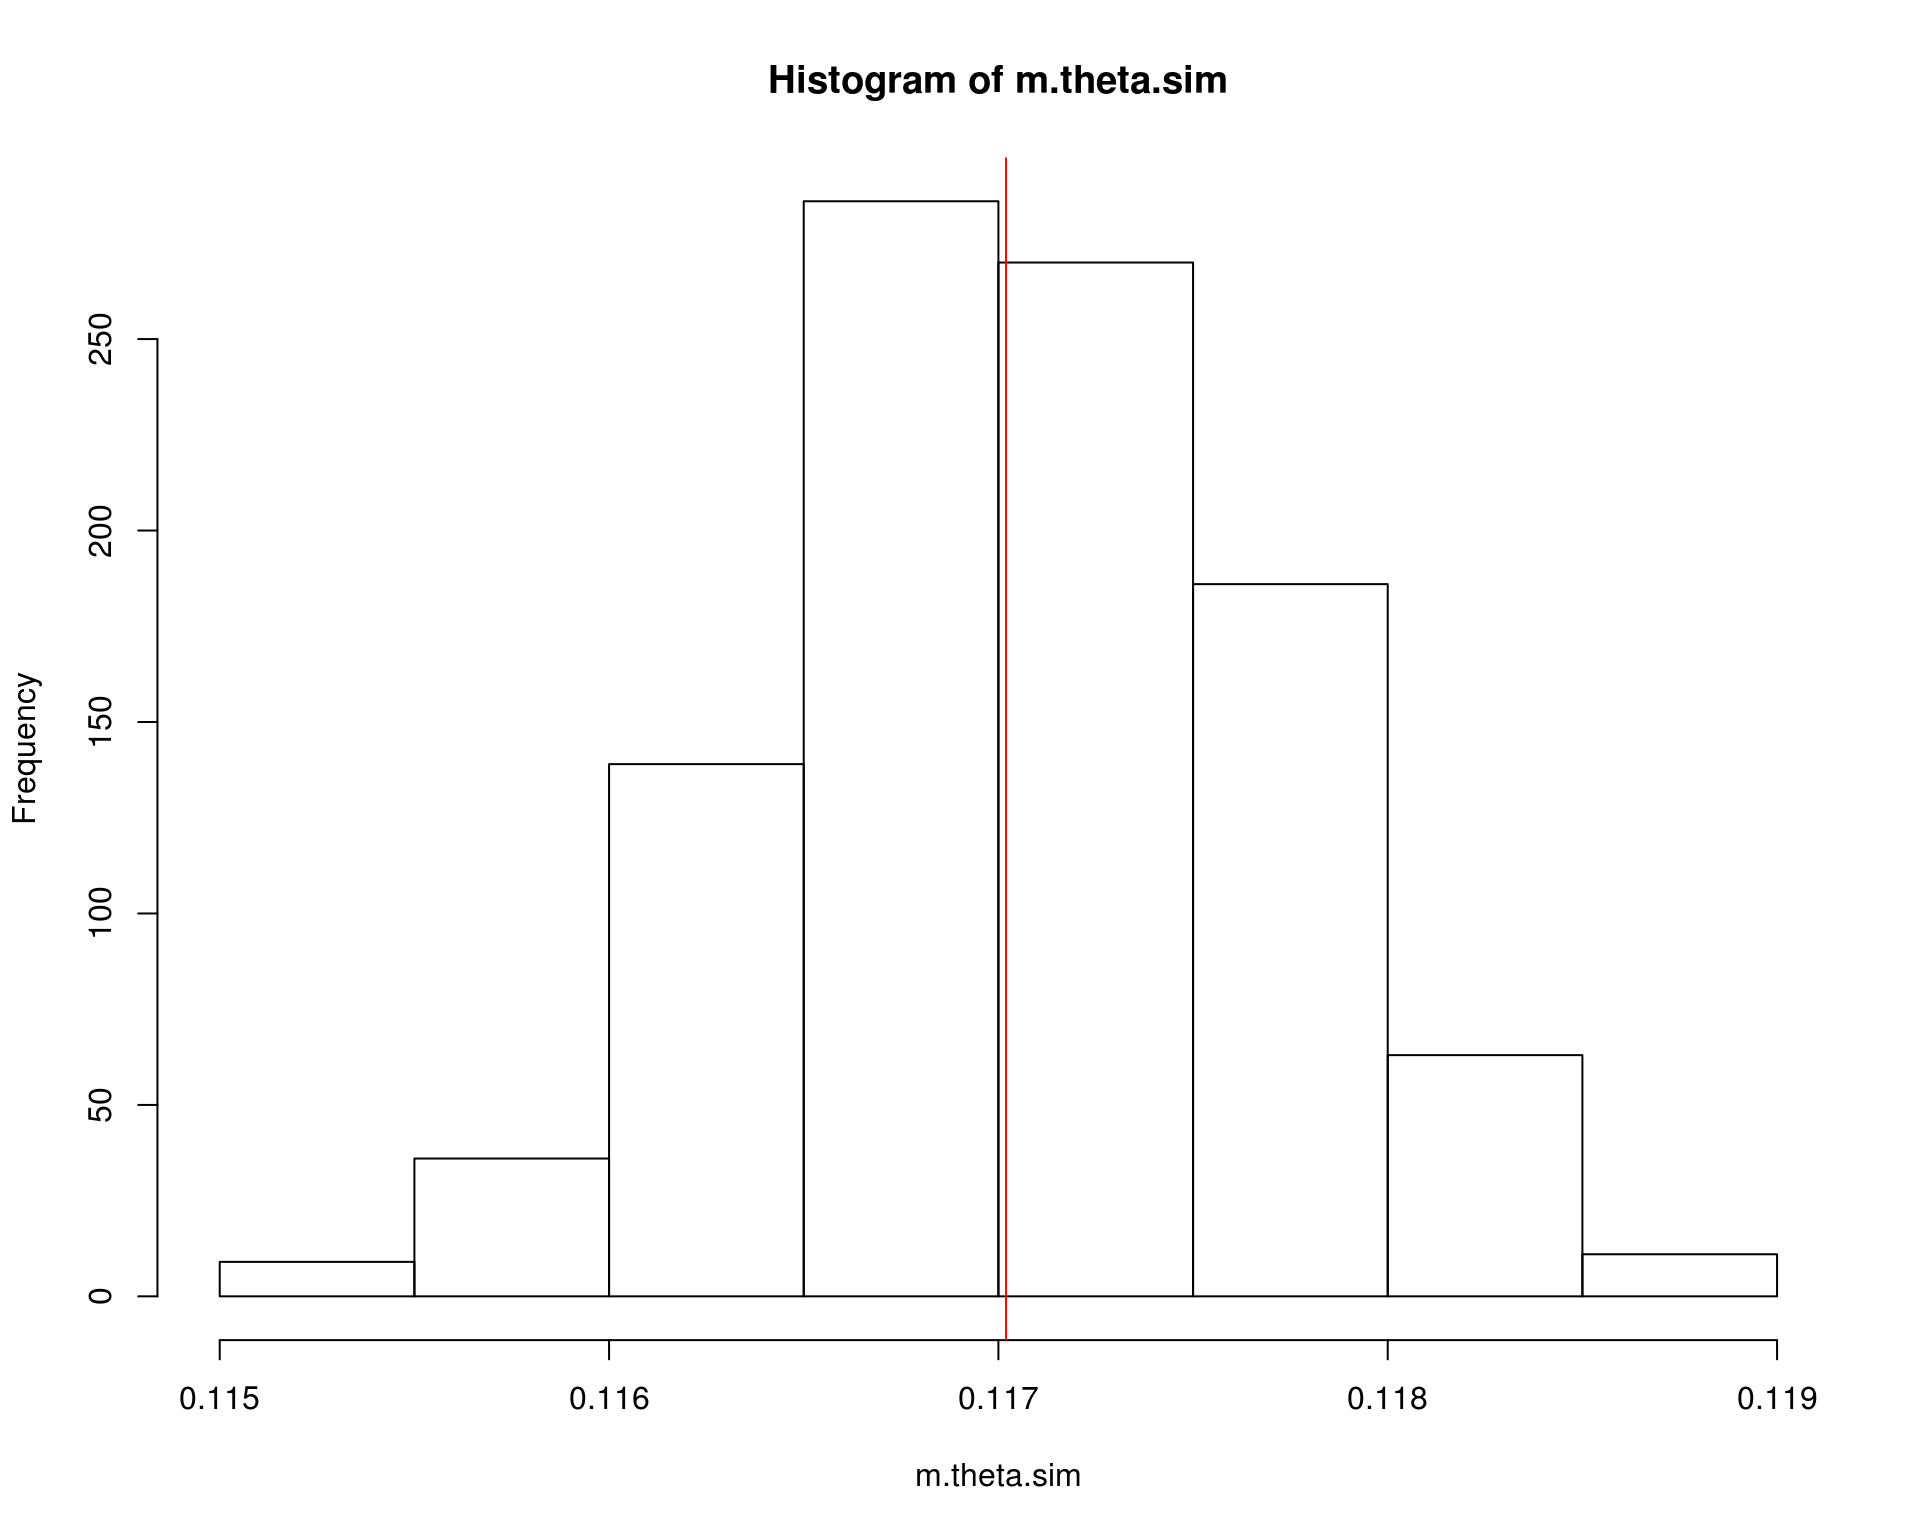
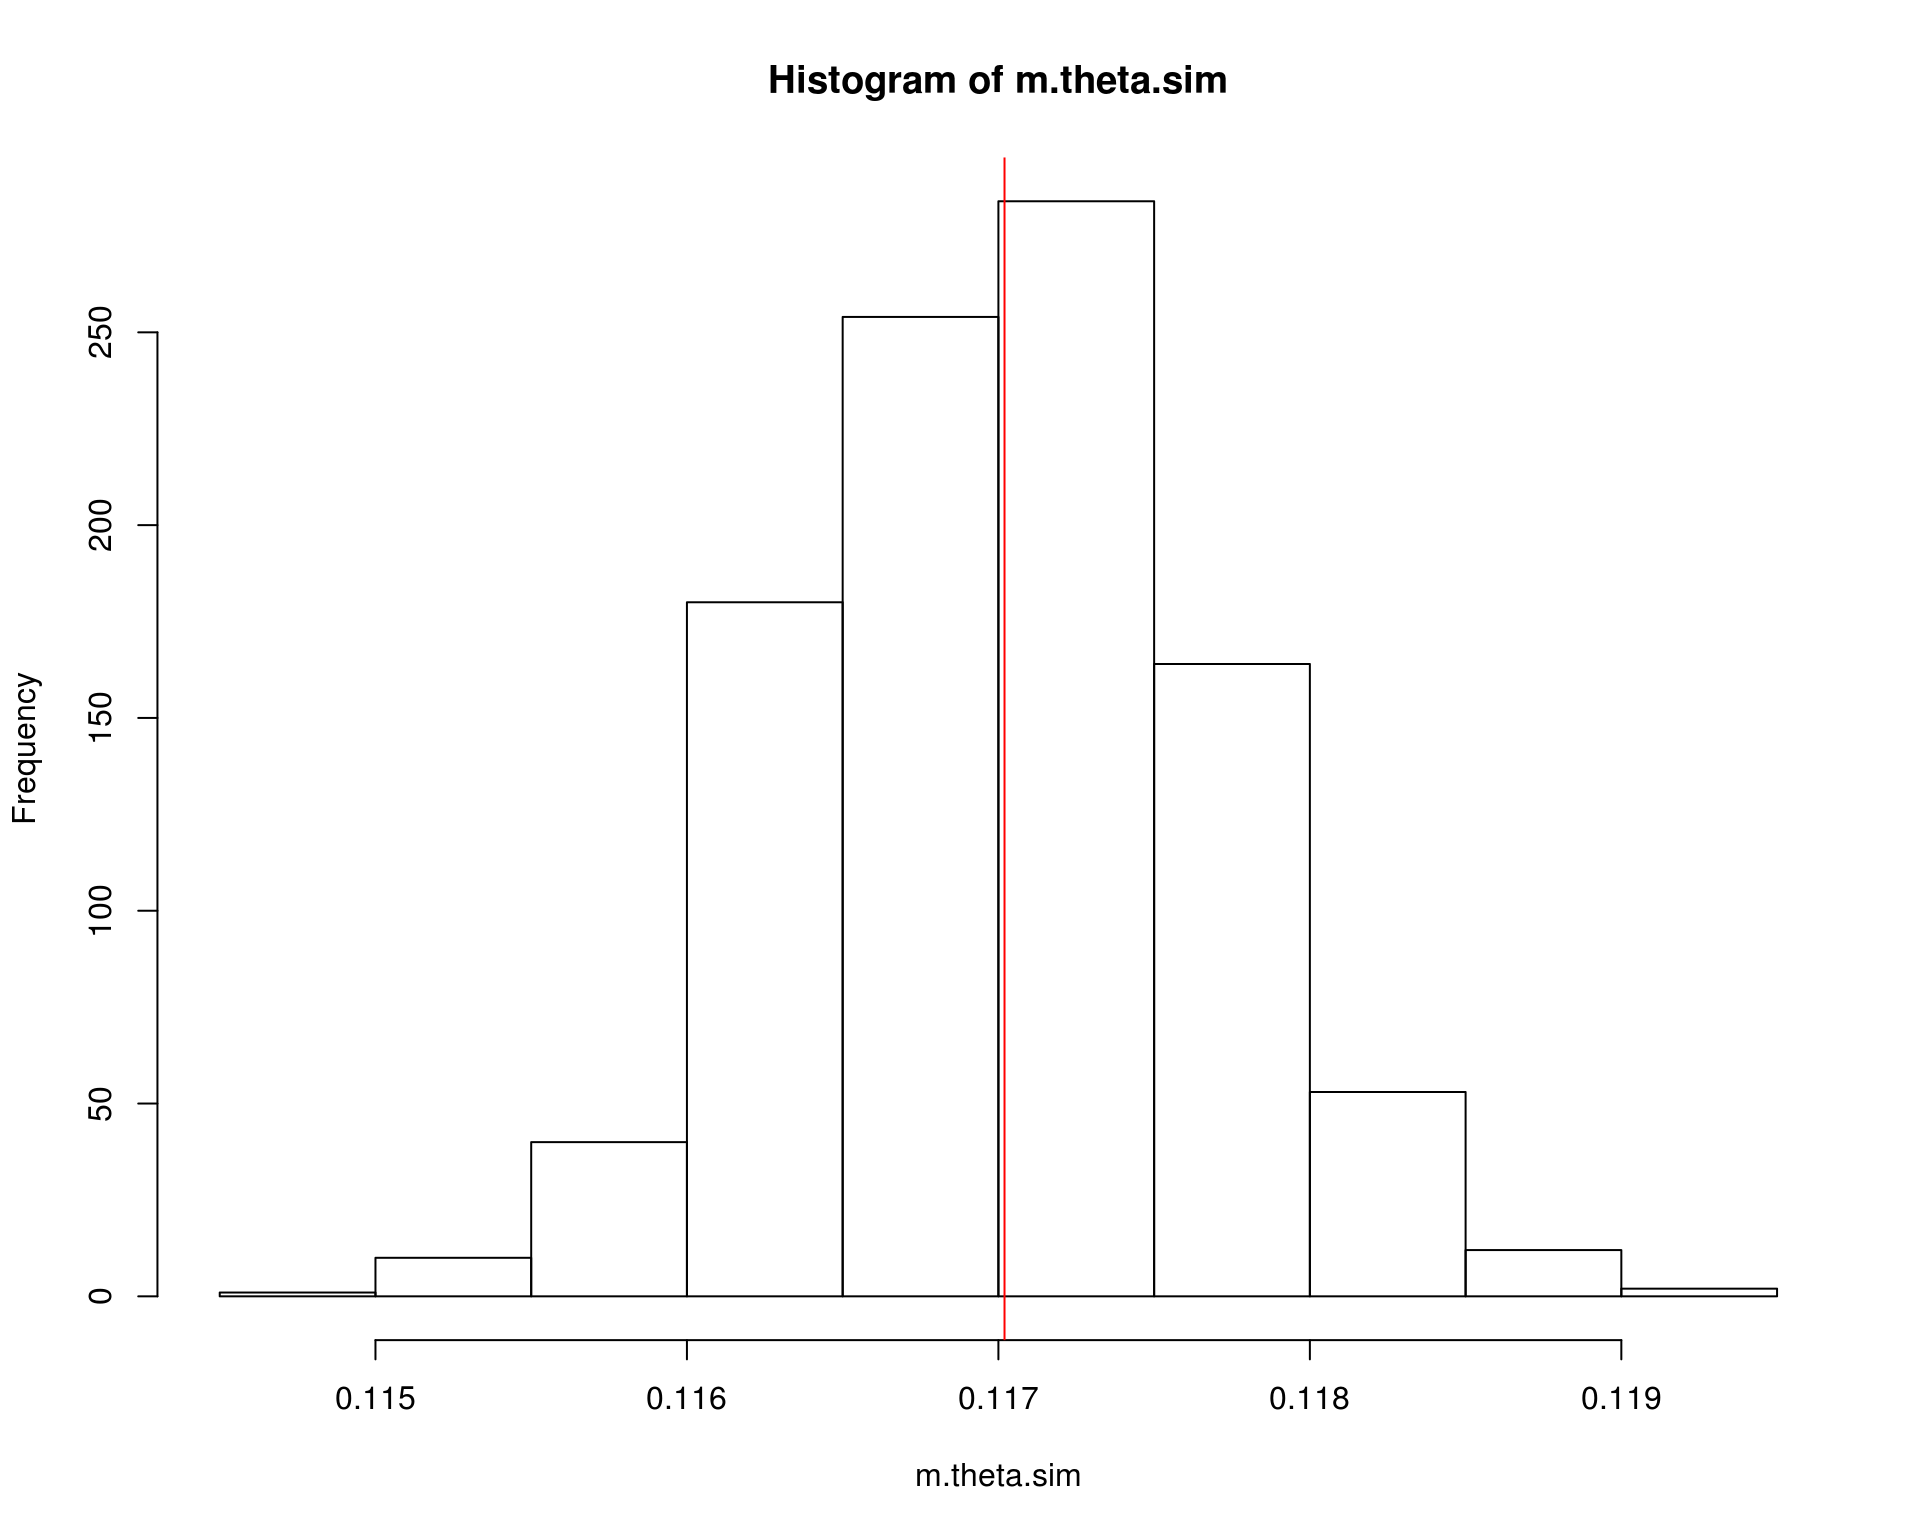
The site is alive.

diff --git a/MC_intro.html b/MC_intro.html
@@ -1,11 +1,10 @@
 <!DOCTYPE html>
 
-<html xmlns="http://www.w3.org/1999/xhtml">
+<html>
 
 <head>
 
 <meta charset="utf-8" />
-<meta http-equiv="Content-Type" content="text/html; charset=utf-8" />
 <meta name="generator" content="pandoc" />
 <meta http-equiv="X-UA-Compatible" content="IE=EDGE" />
 
@@ -554,7 +553,7 @@ P(\lim_{n \to \infty} |\bar{X}_n - \mu| &lt; \epsilon) = 1
 <a class="sourceLine" id="cb1-5" title="5">theta.hat &lt;-<span class="st"> </span><span class="kw">exp</span>(<span class="op">-</span>x)</a>
 <a class="sourceLine" id="cb1-6" title="6"><span class="co">## Calcula a média</span></a>
 <a class="sourceLine" id="cb1-7" title="7">(m.theta.hat &lt;-<span class="st"> </span><span class="kw">sum</span>(theta.hat)<span class="op">/</span>m)</a>
-<a class="sourceLine" id="cb1-8" title="8"><span class="co"># [1] 0.6305867</span></a></code></pre></div>
+<a class="sourceLine" id="cb1-8" title="8"><span class="co"># [1] 0.6341015</span></a></code></pre></div>
 <p>Nesse caso, podemos obter a solução analítica e integração numérica no R para comparar as estimativas</p>
 <div class="sourceCode" id="cb2"><pre class="sourceCode r"><code class="sourceCode r"><a class="sourceLine" id="cb2-1" title="1"><span class="co">## Solução analítica</span></a>
 <a class="sourceLine" id="cb2-2" title="2">(theta &lt;-<span class="st"> </span><span class="dv">1</span> <span class="op">-</span><span class="st"> </span><span class="kw">exp</span>(<span class="op">-</span><span class="dv">1</span>))</a>
@@ -594,7 +593,7 @@ P(\lim_{n \to \infty} |\bar{X}_n - \mu| &lt; \epsilon) = 1
 <a class="sourceLine" id="cb3-6" title="6">theta.hat &lt;-<span class="st"> </span><span class="kw">exp</span>(<span class="op">-</span>x)</a>
 <a class="sourceLine" id="cb3-7" title="7"><span class="co">## Calcula a média * (b - a)</span></a>
 <a class="sourceLine" id="cb3-8" title="8">(m.theta.hat &lt;-<span class="st"> </span>(<span class="kw">sum</span>(theta.hat)<span class="op">/</span>m) <span class="op">*</span><span class="st"> </span>(b <span class="op">-</span><span class="st"> </span>a))</a>
-<a class="sourceLine" id="cb3-9" title="9"><span class="co"># [1] 0.1161925</span></a></code></pre></div>
+<a class="sourceLine" id="cb3-9" title="9"><span class="co"># [1] 0.1171845</span></a></code></pre></div>
 <p>Nesse caso, podemos obter a solução analítica e integração numérica no R para comparar as estimativas</p>
 <div class="sourceCode" id="cb4"><pre class="sourceCode r"><code class="sourceCode r"><a class="sourceLine" id="cb4-1" title="1"><span class="co">## Solução analítica</span></a>
 <a class="sourceLine" id="cb4-2" title="2">(theta &lt;-<span class="st"> </span><span class="kw">exp</span>(<span class="op">-</span><span class="dv">2</span>) <span class="op">-</span><span class="st"> </span><span class="kw">exp</span>(<span class="op">-</span><span class="dv">4</span>))</a>
@@ -615,7 +614,7 @@ P[X&gt;2] = \int_2^{\infty} e^{-x} dx
 <a class="sourceLine" id="cb5-5" title="5">theta.hat2 &lt;-<span class="st"> </span><span class="kw">exp</span>(<span class="op">-</span>x2)</a>
 <a class="sourceLine" id="cb5-6" title="6"><span class="co">## Calcula a média * (b - a)</span></a>
 <a class="sourceLine" id="cb5-7" title="7">(m.theta.hat2 &lt;-<span class="st"> </span>(<span class="kw">sum</span>(theta.hat2)<span class="op">/</span>m) <span class="op">*</span><span class="st"> </span>(<span class="fl">1e5</span> <span class="op">-</span><span class="st"> </span><span class="dv">2</span>))</a>
-<a class="sourceLine" id="cb5-8" title="8"><span class="co"># [1] 9.428502e-06</span></a>
+<a class="sourceLine" id="cb5-8" title="8"><span class="co"># [1] 0.006793177</span></a>
 <a class="sourceLine" id="cb5-9" title="9"><span class="co">## Solução analítica</span></a>
 <a class="sourceLine" id="cb5-10" title="10">(theta2 &lt;-<span class="st"> </span><span class="kw">exp</span>(<span class="op">-</span><span class="dv">2</span>) <span class="op">-</span><span class="st"> </span><span class="kw">exp</span>(<span class="op">-</span><span class="fl">1e5</span>))</a>
 <a class="sourceLine" id="cb5-11" title="11"><span class="co"># [1] 0.1353353</span></a>
@@ -636,17 +635,17 @@ P[X&gt;2] = \int_2^{\infty} e^{-x} dx
 \]</span></p>
 <p>Seguindo o exemplo anterior, vimos que a estimativa da integral é</p>
 <div class="sourceCode" id="cb6"><pre class="sourceCode r"><code class="sourceCode r"><a class="sourceLine" id="cb6-1" title="1">m.theta.hat</a>
-<a class="sourceLine" id="cb6-2" title="2"><span class="co"># [1] 0.1161925</span></a></code></pre></div>
+<a class="sourceLine" id="cb6-2" title="2"><span class="co"># [1] 0.1171845</span></a></code></pre></div>
 <p>Mas veja que existe uma distribuição de valores para compor esta estimativa média</p>
 <div class="sourceCode" id="cb7"><pre class="sourceCode r"><code class="sourceCode r"><a class="sourceLine" id="cb7-1" title="1"><span class="kw">hist</span>(theta.hat); <span class="kw">abline</span>(<span class="dt">v =</span> theta, <span class="dt">col =</span> <span class="dv">2</span>)</a></code></pre></div>
 <p><img src="figures/MC_intro/unnamed-chunk-9-1.png" width="80%" style="display: block; margin: auto;" /></p>
 <p>A variância relacionada ao estimador pode então ser calculada como</p>
 <div class="sourceCode" id="cb8"><pre class="sourceCode r"><code class="sourceCode r"><a class="sourceLine" id="cb8-1" title="1"><span class="co">## Variancia</span></a>
 <a class="sourceLine" id="cb8-2" title="2">(v.theta.hat &lt;-<span class="st"> </span><span class="kw">sum</span>((theta.hat <span class="op">-</span><span class="st"> </span>m.theta.hat)<span class="op">^</span><span class="dv">2</span>)<span class="op">/</span>m<span class="op">^</span><span class="dv">2</span>)</a>
-<a class="sourceLine" id="cb8-3" title="3"><span class="co"># [1] 4.438683e-07</span></a>
+<a class="sourceLine" id="cb8-3" title="3"><span class="co"># [1] 4.50336e-07</span></a>
 <a class="sourceLine" id="cb8-4" title="4"><span class="co">## Erro padrão</span></a>
 <a class="sourceLine" id="cb8-5" title="5">(se.theta.hat &lt;-<span class="st"> </span><span class="kw">sqrt</span>(v.theta.hat))</a>
-<a class="sourceLine" id="cb8-6" title="6"><span class="co"># [1] 0.0006662344</span></a></code></pre></div>
+<a class="sourceLine" id="cb8-6" title="6"><span class="co"># [1] 0.0006710708</span></a></code></pre></div>
 <p>Pelo Teorema do Limite Central, temos que</p>
 <p><span class="math display">\[
 \frac{\hat\theta - \text{E}(\hat\theta)}{\sqrt{\hat{V}(\hat\theta)}}
@@ -660,10 +659,10 @@ P[X&gt;2] = \int_2^{\infty} e^{-x} dx
 <p>Com esse resultado, podemos inclusive fornecer um intervalo de confiança associado à nossa estimativa</p>
 <div class="sourceCode" id="cb10"><pre class="sourceCode r"><code class="sourceCode r"><a class="sourceLine" id="cb10-1" title="1"><span class="co">## Media e veriancia</span></a>
 <a class="sourceLine" id="cb10-2" title="2"><span class="kw">c</span>(m.theta.hat, v.theta.hat)</a>
-<a class="sourceLine" id="cb10-3" title="3"><span class="co"># [1] 1.161925e-01 4.438683e-07</span></a>
+<a class="sourceLine" id="cb10-3" title="3"><span class="co"># [1] 1.171845e-01 4.503360e-07</span></a>
 <a class="sourceLine" id="cb10-4" title="4"><span class="co">## Intervalo de confiança (95%)</span></a>
 <a class="sourceLine" id="cb10-5" title="5"><span class="kw">c</span>(m.theta.hat <span class="op">-</span><span class="st"> </span><span class="fl">1.96</span> <span class="op">*</span><span class="st"> </span>se.theta.hat, m.theta.hat <span class="op">+</span><span class="st"> </span><span class="fl">1.96</span> <span class="op">*</span><span class="st"> </span>se.theta.hat)</a>
-<a class="sourceLine" id="cb10-6" title="6"><span class="co"># [1] 0.1148867 0.1174983</span></a></code></pre></div>
+<a class="sourceLine" id="cb10-6" title="6"><span class="co"># [1] 0.1158692 0.1184998</span></a></code></pre></div>
 <p>Veja que assintoticamente, i.e., conforme aumentamos o tamanho da amostra, o valor da integral se aproxima cada vez mais do valor verdadeiro (que nesse caso sabemos calcular analiticamente, apenas para comparação).</p>
 <div class="sourceCode" id="cb11"><pre class="sourceCode r"><code class="sourceCode r"><a class="sourceLine" id="cb11-1" title="1"><span class="co">## Simula a convergência para o verdadeiro valor conforme aumenta o</span></a>
 <a class="sourceLine" id="cb11-2" title="2"><span class="co">## tamanho da amostra</span></a>

diff --git a/notas.html b/notas.html
@@ -1,11 +1,10 @@
 <!DOCTYPE html>
 
-<html xmlns="http://www.w3.org/1999/xhtml">
+<html>
 
 <head>
 
 <meta charset="utf-8" />
-<meta http-equiv="Content-Type" content="text/html; charset=utf-8" />
 <meta name="generator" content="pandoc" />
 <meta http-equiv="X-UA-Compatible" content="IE=EDGE" />
 
@@ -311,11 +310,13 @@ $(document).ready(function () {
 <th align="right">A1</th>
 <th align="right">A2</th>
 <th align="right">P1</th>
+<th align="right">P2</th>
 </tr>
 </thead>
 <tbody>
 <tr class="odd">
 <td align="left">GRR20137526</td>
+<td align="right">NA</td>
 <td align="right">NA</td>
 <td align="right">NA</td>
 <td align="right">NA</td>
@@ -325,10 +326,12 @@ $(document).ready(function () {
 <td align="right">NA</td>
 <td align="right">NA</td>
 <td align="right">NA</td>
+<td align="right">NA</td>
 </tr>
 <tr class="odd">
 <td align="left">GRR20149092</td>
 <td align="right">12</td>
+<td align="right">NA</td>
 <td align="right">NA</td>
 <td align="right">NA</td>
 </tr>
@@ -337,21 +340,25 @@ $(document).ready(function () {
 <td align="right">25</td>
 <td align="right">NA</td>
 <td align="right">NA</td>
+<td align="right">NA</td>
 </tr>
 <tr class="odd">
 <td align="left">GRR20149163</td>
 <td align="right">10</td>
 <td align="right">10</td>
 <td align="right">12</td>
+<td align="right">NA</td>
 </tr>
 <tr class="even">
 <td align="left">GRR20159111</td>
 <td align="right">5</td>
 <td align="right">NA</td>
 <td align="right">NA</td>
+<td align="right">NA</td>
 </tr>
 <tr class="odd">
 <td align="left">GRR20159136</td>
+<td align="right">NA</td>
 <td align="right">NA</td>
 <td align="right">NA</td>
 <td align="right">NA</td>
@@ -361,15 +368,18 @@ $(document).ready(function () {
 <td align="right">50</td>
 <td align="right">90</td>
 <td align="right">57</td>
+<td align="right">89</td>
 </tr>
 <tr class="odd">
 <td align="left">GRR20159231</td>
 <td align="right">25</td>
 <td align="right">30</td>
 <td align="right">17</td>
+<td align="right">10</td>
 </tr>
 <tr class="even">
 <td align="left">GRR20159695</td>
+<td align="right">NA</td>
 <td align="right">NA</td>
 <td align="right">NA</td>
 <td align="right">NA</td>
@@ -379,33 +389,39 @@ $(document).ready(function () {
 <td align="right">5</td>
 <td align="right">NA</td>
 <td align="right">NA</td>
+<td align="right">NA</td>
 </tr>
 <tr class="even">
 <td align="left">GRR20160206</td>
 <td align="right">96</td>
 <td align="right">70</td>
 <td align="right">36</td>
+<td align="right">75</td>
 </tr>
 <tr class="odd">
 <td align="left">GRR20160215</td>
 <td align="right">83</td>
 <td align="right">20</td>
 <td align="right">22</td>
+<td align="right">56</td>
 </tr>
 <tr class="even">
 <td align="left">GRR20160217</td>
 <td align="right">50</td>
 <td align="right">69</td>
 <td align="right">43</td>
+<td align="right">55</td>
 </tr>
 <tr class="odd">
 <td align="left">GRR20160219</td>
 <td align="right">100</td>
 <td align="right">67</td>
 <td align="right">76</td>
+<td align="right">76</td>
 </tr>
 <tr class="even">
 <td align="left">GRR20160221</td>
+<td align="right">NA</td>
 <td align="right">NA</td>
 <td align="right">NA</td>
 <td align="right">NA</td>
@@ -415,15 +431,18 @@ $(document).ready(function () {
 <td align="right">95</td>
 <td align="right">25</td>
 <td align="right">58</td>
+<td align="right">70</td>
 </tr>
 <tr class="even">
 <td align="left">GRR20160239</td>
 <td align="right">45</td>
 <td align="right">52</td>
 <td align="right">19</td>
+<td align="right">74</td>
 </tr>
 <tr class="odd">
 <td align="left">GRR20160304</td>
+<td align="right">NA</td>
 <td align="right">NA</td>
 <td align="right">NA</td>
 <td align="right">NA</td>
@@ -433,10 +452,12 @@ $(document).ready(function () {
 <td align="right">48</td>
 <td align="right">NA</td>
 <td align="right">NA</td>
+<td align="right">NA</td>
 </tr>
 <tr class="odd">
 <td align="left">GRR20165742</td>
 <td align="right">10</td>
+<td align="right">NA</td>
 <td align="right">NA</td>
 <td align="right">NA</td>
 </tr>
@@ -445,15 +466,18 @@ $(document).ready(function () {
 <td align="right">17</td>
 <td align="right">NA</td>
 <td align="right">NA</td>
+<td align="right">NA</td>
 </tr>
 <tr class="odd">
 <td align="left">GRR20185596</td>
 <td align="right">NA</td>
 <td align="right">NA</td>
 <td align="right">NA</td>
+<td align="right">NA</td>
 </tr>
 <tr class="even">
 <td align="left">ISO20130219</td>
+<td align="right">NA</td>
 <td align="right">NA</td>
 <td align="right">NA</td>
 <td align="right">NA</td>

diff --git a/MCMC-1.html b/MCMC-1.html
@@ -1,11 +1,10 @@
 <!DOCTYPE html>
 
-<html xmlns="http://www.w3.org/1999/xhtml">
+<html>
 
 <head>
 
 <meta charset="utf-8" />
-<meta http-equiv="Content-Type" content="text/html; charset=utf-8" />
 <meta name="generator" content="pandoc" />
 <meta http-equiv="X-UA-Compatible" content="IE=EDGE" />
 

diff --git a/MCMC-2.html b/MCMC-2.html
@@ -1,11 +1,10 @@
 <!DOCTYPE html>
 
-<html xmlns="http://www.w3.org/1999/xhtml">
+<html>
 
 <head>
 
 <meta charset="utf-8" />
-<meta http-equiv="Content-Type" content="text/html; charset=utf-8" />
 <meta name="generator" content="pandoc" />
 <meta http-equiv="X-UA-Compatible" content="IE=EDGE" />
 

diff --git a/aulas.html b/aulas.html
@@ -1,11 +1,10 @@
 <!DOCTYPE html>
 
-<html xmlns="http://www.w3.org/1999/xhtml">
+<html>
 
 <head>
 
 <meta charset="utf-8" />
-<meta http-equiv="Content-Type" content="text/html; charset=utf-8" />
 <meta name="generator" content="pandoc" />
 <meta http-equiv="X-UA-Compatible" content="IE=EDGE" />
 

diff --git a/index.html b/index.html
@@ -1,11 +1,10 @@
 <!DOCTYPE html>
 
-<html xmlns="http://www.w3.org/1999/xhtml">
+<html>
 
 <head>
 
 <meta charset="utf-8" />
-<meta http-equiv="Content-Type" content="text/html; charset=utf-8" />
 <meta name="generator" content="pandoc" />
 <meta http-equiv="X-UA-Compatible" content="IE=EDGE" />
 

diff --git a/materiais.html b/materiais.html
@@ -1,11 +1,10 @@
 <!DOCTYPE html>
 
-<html xmlns="http://www.w3.org/1999/xhtml">
+<html>
 
 <head>
 
 <meta charset="utf-8" />
-<meta http-equiv="Content-Type" content="text/html; charset=utf-8" />
 <meta name="generator" content="pandoc" />
 <meta http-equiv="X-UA-Compatible" content="IE=EDGE" />
 

diff --git a/referencias.html b/referencias.html
@@ -1,11 +1,10 @@
 <!DOCTYPE html>
 
-<html xmlns="http://www.w3.org/1999/xhtml">
+<html>
 
 <head>
 
 <meta charset="utf-8" />
-<meta http-equiv="Content-Type" content="text/html; charset=utf-8" />
 <meta name="generator" content="pandoc" />
 <meta http-equiv="X-UA-Compatible" content="IE=EDGE" />
 
